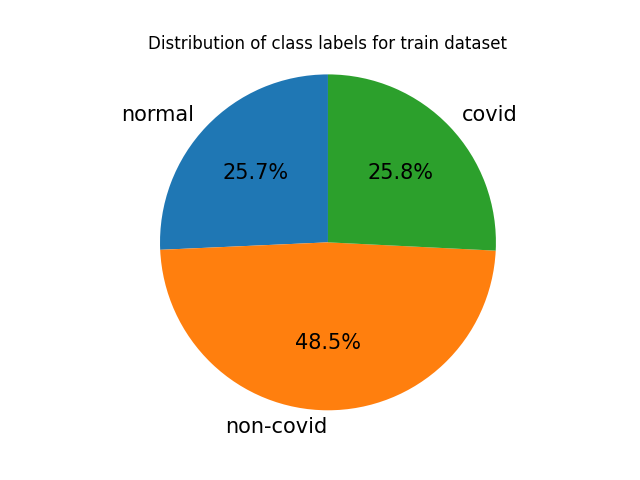
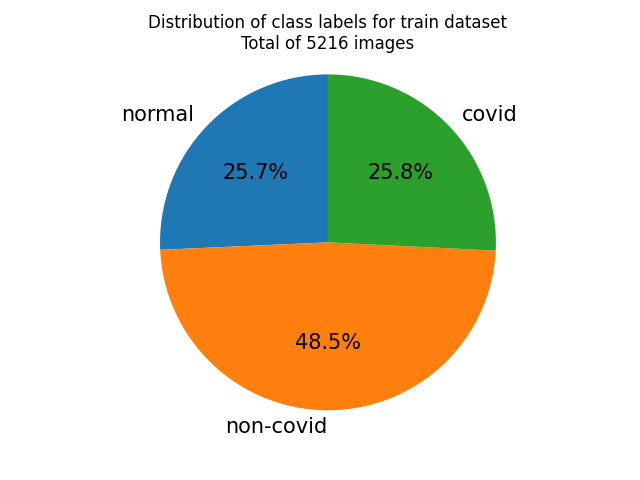
-

Changed region(s): [[0.2188, 0.0312, 0.8125, 0.125]]

diff --git a/model.py b/model.py
@@ -200,7 +200,7 @@ def train(infect_trainloader, infect_testloader, covid_trainloader, covid_testlo
     print("Training Binary Classifier model for Infected")
 
     #Create model, optimizer and criterion
-    model_infect = OneModel()
+    model_infect = PreliminaryModel()
     model_infect.lr = lr
     optimizer = optim.Adam(model_infect.parameters(),lr=lr, weight_decay=weight_decay)
     criterion = nn.CrossEntropyLoss(make_weight_losses(infect_trainloader, False))
@@ -512,26 +512,31 @@ def load(path):
 dataset_dir = './dataset'
 
 train_transforms = transforms.Compose([
-    transforms.ColorJitter(0.25,0.25,0.25),
+    # transforms.ColorJitter(0.25,0.25,0.25),
     transforms.RandomRotation(15),
     transforms.RandomAffine(15, scale=(0.9,1.1)),
-    transforms.ToTensor(),
-    transforms.Normalize((0.4824,), (0.2363,)),
-    transforms.ToPILImage(),
+    # transforms.ToTensor(),
+    # transforms.Normalize((0.4824,), (0.2363,)),
+    # transforms.ToPILImage(),
 ])
-img_transforms = transforms.Compose([
-    transforms.ToTensor(),
-    transforms.Normalize((0.4824,), (0.2363,)),
-    transforms.ToPILImage(),
-])
+# img_transforms = transforms.Compose([
+#     transforms.ToTensor(),
+#     transforms.Normalize((0.4824,), (0.2363,)),
+#     transforms.ToPILImage(),
+# ])
+
+# train_transforms=None
+img_transforms=None
 
 ld_train = Lung_Train_Dataset(dataset_dir, covid = None, transform=train_transforms)
 trainloader = DataLoader(ld_train, batch_size = 64, sampler=WeightedRandomSampler(make_balanced_weights(ld_train), len(ld_train)))
+# trainloader = DataLoader(ld_train, batch_size = 64, shuffle=True)
 ld_test = Lung_Test_Dataset(dataset_dir, covid = None, transform=img_transforms)
 testloader = DataLoader(ld_test, batch_size = 64, shuffle=True)
 
 ld_train_c = Lung_Train_Dataset(dataset_dir, covid = True, transform=train_transforms)
 trainloader_c = DataLoader(ld_train_c, batch_size = 64, sampler=WeightedRandomSampler(make_balanced_weights(ld_train_c), len(ld_train_c)))
+# trainloader_c = DataLoader(ld_train_c, batch_size = 64, shuffle=True)
 ld_test_c = Lung_Test_Dataset(dataset_dir, covid = True, transform=img_transforms)
 testloader_c = DataLoader(ld_test_c, batch_size = 64, shuffle=True)
 

diff --git a/visualise.py b/visualise.py
@@ -18,6 +18,7 @@ def chart_dataset_sizes(dataset):
     ax1.set_title(f"Distribution of class labels for {dataset.dataset_type} dataset\nTotal of {sum(dataset.dataset_numbers.values())} images")
 
     plt.savefig(f'piechart_{dataset.dataset_type}')
+    plt.clf()
 
 
 def plot_curve(trainingloss, trainingacc, testloss, testacc,covid):
@@ -72,12 +73,12 @@ def visualise_val_predictions(dataset, target_i, target_c, pred_i, pred_c, accur
     plt.tight_layout()
     plt.savefig('validation_display')
 
-dataset_dir = './dataset'
-ld_train = Lung_Train_Dataset(dataset_dir)
-chart_dataset_sizes(ld_train)
+# dataset_dir = './dataset'
+# ld_train = Lung_Train_Dataset(dataset_dir)
+# chart_dataset_sizes(ld_train)
 
-ld_test = Lung_Test_Dataset(dataset_dir)
-chart_dataset_sizes(ld_test)
+# ld_test = Lung_Test_Dataset(dataset_dir)
+# chart_dataset_sizes(ld_test)
 
-ld_val = Lung_Val_Dataset(dataset_dir)
-chart_dataset_sizes(ld_val)
+# ld_val = Lung_Val_Dataset(dataset_dir)
+# chart_dataset_sizes(ld_val)

diff --git a/utils.py b/utils.py
@@ -47,7 +47,7 @@ def make_weight_losses(dataloader, covid):
 
     return torch.tensor([N/(N-positive_count), N/positive_count])
 
-# tensor([0.4824, 0.4824, 0.4824]) tensor([0.2363, 0.2363, 0.2363]) for Lung_Train w/o covid
+# tensor([0.4824, 0.4824, 0.4824]) tensor([0.2363, 0.2363, 0.2363]) for Lung_Train
 def cal_mean_and_sd(loader):
     cnt = 0
     fst_moment = torch.empty(3)
@@ -58,8 +58,8 @@ def cal_mean_and_sd(loader):
         
         b, c, h, w = data.shape
         nb_pixels = b * h * w
-        sum_ = torch.sum(data, dim=[0, 2, 3])
-        sum_of_square = torch.sum(data ** 2, dim=[0, 2, 3])
+        sum_ = torch.sum(data)
+        sum_of_square = torch.sum(data ** 2)
         fst_moment = (cnt * fst_moment + sum_) / (cnt + nb_pixels)
         snd_moment = (cnt * snd_moment + sum_of_square) / (cnt + nb_pixels)
 
